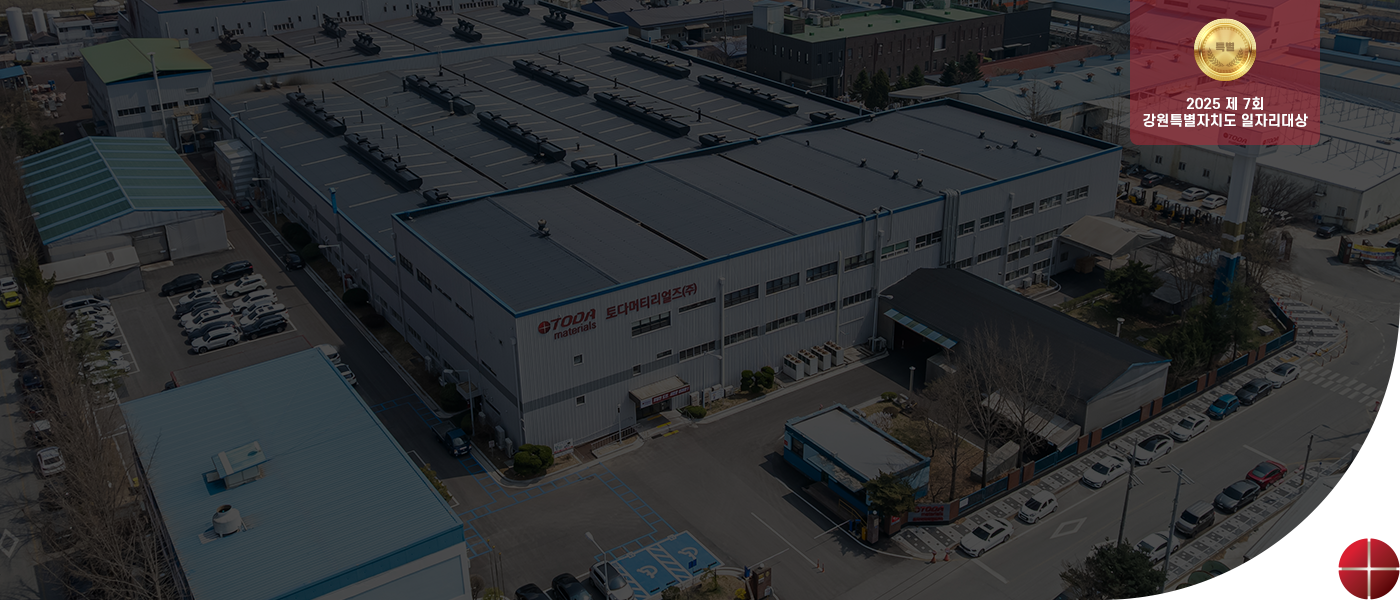
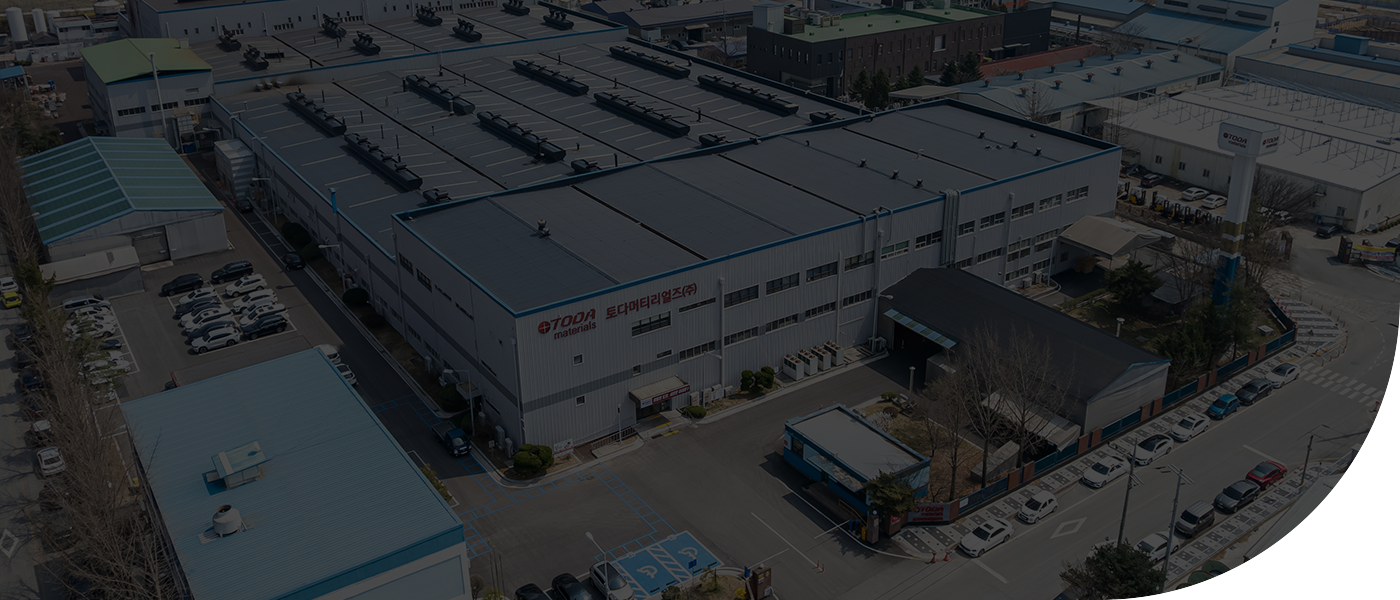
.

Changed region(s): [[0.7986, 0.0, 0.9521, 0.24], [0.9521, 0.9, 1.0, 1.0], [0.7986, 0.99, 0.8293, 1.0]]

diff --git a/html/page/corpCnt/css/corp08.css b/html/page/corpCnt/css/corp08.css
@@ -3,44 +3,49 @@ html { font-size: 10px }
 .pd70 { padding: 7rem 0 } 
 
 /* 메인 */
-.mod_visual { width: 100%; height: 600px; padding: 60px 0; background: url(../images/corp08/visual.png) no-repeat; background-size: cover; } 
+.mod_visual { width: 100%; height: 600px; position: relative; padding: 60px 0; background: url(../images/corp08/visual.png) no-repeat; background-size: cover; } 
+.mod_visual .container { position: initial; } 
+.mod_visual .cert_wrap { position: absolute; top: 0; right: 80px; padding: 18px 10px; background-color: rgba(212, 31, 49, 0.4); border-radius: 0 0 10px 10px; } 
+.mod_visual .cert_wrap .cert_img { margin-bottom: 10px; text-align: center; } 
+.mod_visual .cert_wrap p { color: #fff; font-size: 1.4rem; font-weight: 600; text-align: center; } 
 .mod_visual .txt_wrap { margin-top: 120px; text-align: left; } 
 .mod_visual .comName { color: #fff; font-size: 3.2rem; } 
 .mod_visual .comName b { font-size: 3.2rem; } 
 .mod_visual .title { margin-top: 6rem; font-size: 6rem; color: #fff; font-weight: bold; } 
+.mod_visual .imgCi { position: absolute; bottom: 0; right: 0; } 
 .sns_mod_info.sty01 { background: url(../images/corp08/info.png) no-repeat !important; background-size: cover !important; } 
 .sns_mod_info.sty01 .info_wrap > li { font-size: 1.8rem; color: #fff; } 
-.sns_mod_info.sty01 .info_wrap > li .cnt span { font-size: 2rem; color: #fff; } 
 .sns_mod_info.sty01 ul li:nth-child(1) .ico { background: url(../images/corp08/ico_finance01.png) no-repeat center; } 
 .sns_mod_info.sty01 ul li:nth-child(2) .ico { background: url(../images/corp08/ico_finance02.png) no-repeat center; } 
 .sns_mod_info.sty01 ul li:nth-child(3) .ico { background: url(../images/corp08/ico_finance03.png) no-repeat center; } 
 .sns_mod_info.sty01 ul li:nth-child(4) .ico { background: url(../images/corp08/ico_finance04.png) no-repeat center; } 
 
 /* 기업소개 */
-.mod_introduce h3 {margin-bottom: 40px;font-weight: 600;font-size: 4rem;text-align: center; } 
-.mod_introduce .txt {font-size: 1.8rem;line-height: 1.6;text-align: center; } 
-.mod_introduce .introduce_item {display: flex;align-items: center;justify-content: space-between;gap: 10px;margin-top: 40px; } 
-.mod_introduce .introduce_txt {max-width: 830px; } 
-.mod_introduce .introduce_txt p {font-size: 1.8rem;line-height: 1.6;word-break: keep-all; } 
+.mod_introduce h3 { margin-bottom: 40px; font-weight: 600; font-size: 4rem; text-align: center; } 
+.mod_introduce .txt { font-size: 1.8rem; line-height: 1.6; text-align: center; } 
+.mod_introduce .introduce_item { display: flex; align-items: center; justify-content: space-between; gap: 10px; margin-top: 40px; } 
+.mod_introduce .introduce_txt { max-width: 830px; } 
+.mod_introduce .introduce_txt p { font-size: 1.8rem; line-height: 1.6; word-break: keep-all; } 
 
 /* 핵심가치 */
 .mod_vision { padding: 70px 60px; background-color: #fbf6f5; } 
-.mod_vision h3 {margin-bottom: 40px;font-weight: 600;font-size: 4rem;text-align: center; } 
-.mod_vision .txt {color: #333;font-size: 2.4rem;text-align: center; } 
-.mod_vision .txt::before, .mod_vision .txt::after {display: inline-block;content: '';width: 16px;height: 13px;margin-right: 10px;background: url(../images/corp08/vision_img01.png) no-repeat center;vertical-align: top; } 
-.mod_vision .txt::after {margin-left: 10px;background: url(../images/corp08/vision_img02.png) no-repeat center; } 
-.mod_vision .vision_list {display: grid;grid-template-columns: repeat(4, 1fr);gap: 30px;margin-top: 60px; } 
-.mod_vision .vision_list li::before {content: '';display: block;width: 100%;height: 56px;margin-bottom: 20px;background-image: url(../images/corp08/vision_list01.png);background-repeat: no-repeat;background-position: center right;background-size: contain; } 
-.mod_vision .vision_list li:nth-child(2):before {background-image: url(../images/corp08/vision_list02.png); } 
-.mod_vision .vision_list li:nth-child(3):before {background-image: url(../images/corp08/vision_list03.png); } 
-.mod_vision .vision_list li:nth-child(4):before {background-image: url(../images/corp08/vision_list04.png); } 
-.mod_vision .vision_list li {padding: 30px 20px;background-color: #fff;border-radius: 20px;box-shadow: 0px 2px 7.36px 0.64px rgba(0, 0, 0, 0.1); } 
-.mod_vision .vision_list__tit strong {color: #333333;font-size: 2.4rem;font-weight: 600; } 
-.mod_vision .vision_list__tit p {margin-top: 15px;color: #b42432;font-size: 1.6rem; } 
-.mod_vision .vision_list__txt {margin-top: 20px;color: #848484;font-size: 1.8rem; } 
+.mod_vision h3 { margin-bottom: 40px; font-weight: 600; font-size: 4rem; text-align: center; } 
+.mod_vision .txt { color: #333; font-size: 2.4rem; text-align: center; } 
+.mod_vision .txt::before, .mod_vision .txt::after { display: inline-block; content: ''; width: 16px; height: 13px; margin-right: 10px; background: url(../images/corp08/vision_img01.png) no-repeat center; vertical-align: top; } 
+.mod_vision .txt::after { margin-left: 10px; background: url(../images/corp08/vision_img02.png) no-repeat center; } 
+.mod_vision .vision_list { display: grid; grid-template-columns: repeat(4, 1fr); gap: 30px; margin-top: 60px; } 
+.mod_vision .vision_list li::before { content: ''; display: block; width: 100%; height: 56px; margin-bottom: 20px; background-image: url(../images/corp08/vision_list01.png); background-repeat: no-repeat; background-position: center right; background-size: contain; } 
+.mod_vision .vision_list li:nth-child(2):before { background-image: url(../images/corp08/vision_list02.png); } 
+.mod_vision .vision_list li:nth-child(3):before { background-image: url(../images/corp08/vision_list03.png); } 
+.mod_vision .vision_list li:nth-child(4):before { background-image: url(../images/corp08/vision_list04.png); } 
+.mod_vision .vision_list li { padding: 30px 20px; background-color: #fff; border-radius: 20px; box-shadow: 0px 2px 7.36px 0.64px rgba(0, 0, 0, 0.1); } 
+.mod_vision .vision_list__tit strong { color: #333333; font-size: 2.4rem; font-weight: 600; } 
+.mod_vision .vision_list__tit p { margin-top: 15px; color: #b42432; font-size: 1.6rem; } 
+.mod_vision .vision_list__txt { margin-top: 20px; color: #848484; font-size: 1.8rem; } 
 
 /* 연혁 */
 .mod_history02 { overflow: hidden; } 
+.mod_history02 .history { max-width: 1200px; width: 100%; } 
 .mod_history02 .slick-slide { height: auto; } 
 
 /* 재무정보 */
@@ -52,121 +57,130 @@ html { font-size: 10px }
 /* 제품소개 */
 .mod_business_area04 .bizDiv .slick-slide .info > h4 { color: #333333; font-size: 2.4rem; text-align: center; } 
 .mod_business_area04 .bizDiv .slick-slide .info > p { color: #333333; font-size: 1.8rem; text-align: center; } 
-.mod_business_area04 .slick-dots {position: absolute;bottom: -18px;display: block;width: 100%;padding: 0;list-style: none;text-align: center}
+.mod_business_area04 .slick-dots { position: absolute; bottom: -18px; display: block; width: 100%; padding: 0; list-style: none; text-align: center } 
 
-.mod_business_area04 .slick-dots li {position: relative;display: inline-block;margin: 0 5px;padding: 0; } 
+.mod_business_area04 .slick-dots li { position: relative; display: inline-block; margin: 0 5px; padding: 0; } 
 
-.mod_business_area04 .slick-dots li button {display: block;width: 18px;height: 18px;background-color: #dadada;font-size: 0;border: 0;outline: 0;cursor: pointer;border-radius: 50%; } 
-.mod_business_area04 .slick-dots li.slick-active button {width: 36px;background-color: #c31f2f;border-radius: 20px; } 
+.mod_business_area04 .slick-dots li button { display: block; width: 18px; height: 18px; background-color: #dadada; font-size: 0; border: 0; outline: 0; cursor: pointer; border-radius: 50%; } 
+.mod_business_area04 .slick-dots li.slick-active button { width: 36px; background-color: #c31f2f; border-radius: 20px; } 
 
 /* 갤러리 */
-.mod_gallery .gallery_wrap {display: flex;gap: 10px; } 
-.mod_gallery .gallery_wrap ul:nth-child(1) {display: grid;grid-template-columns: 2fr 2fr;gap: 10px; } 
-.mod_gallery .gallery_wrap img {display: block; } 
+.mod_gallery .gallery_wrap { display: flex; gap: 10px; } 
+.mod_gallery .gallery_wrap ul:nth-child(1) { display: grid; grid-template-columns: 2fr 2fr; gap: 10px; } 
+.mod_gallery .gallery_wrap img { display: block; } 
 
 /* 복리후생 */
-.mod_culture09 {margin: 0 auto;background-color: #fbf6f5; } 
-.mod_culture09 .item:before {width: 80px;height: 80px;margin: 0 0 0 0;background-color: #f0f0f0 !important;background-repeat: no-repeat;background-position: center;border-radius: 10px; } 
-.mod_culture09 .item.insurance:before {background-image: url(../images/corp08/welfare_icon01.png); } 
-.mod_culture09 .item.reward:before {background-image: url(../images/corp08/welfare_icon02.png); } 
-.mod_culture09 .item.education:before {background-image: url(../images/corp08/welfare_icon03.png); } 
-.mod_culture09 .item.facilities:before {background-image: url(../images/corp08/welfare_icon04.png); } 
-.mod_culture09 .item.convenience:before {background-image: url(../images/corp08/welfare_icon05.png); } 
-.mod_culture09 .item.holiday:before {background-image: url(../images/corp08/welfare_icon06.png); } 
-.mod_culture09 .item.leisure:before {background-image: url(../images/corp08/welfare_icon07.png); } 
-.mod_culture09 .item.deduct:before {background-image: url(../images/corp08/welfare_icon01.png); } 
-.mod_culture09 .item dl {display: flex;flex-wrap: wrap;gap: 4px; } 
-.mod_culture09 .item dt {width: 100%;padding: 0;font-size: 1.6rem;font-weight: 600; } 
-.mod_culture09 .item dd {color: #a8a8a8;font-size: 1.4rem; } 
-.mod_culture09 .item dd:not(:last-child)::after {content: ','; } 
-.mod_culture09 .culwel_wrap {padding: 20px;background-color: #fff;border-radius: 15px;box-shadow: 0px 2px 7.36px 0.64px rgba(0, 0, 0, 0.1); } 
-.mod_culture09 .slick-track .slick-slide > div + div {padding: 20px 0; } 
-.mod_culture09 .slick-track .slick-slide > div {min-height: 110px;padding: 20px 0; } 
-.mod_culture09 .welfare_box {display: flex;margin-bottom: 40px; } 
-.mod_culture09 .welfare_img {display: flex;justify-content: center;flex-shrink: 0;width: 300px;height: 250px;padding: 40px 10px;background: url(../images/corp08/welfare_img.png) center no-repeat; } 
-.mod_culture09 .welfare_img p {margin-top: auto;color: #fff;font-size: 2.4rem;font-weight: 700;}
-.mod_culture09 .welfare_txt {display: flex;align-items: center;width: 100%;padding: 10px 40px;background-color: #fff;border-radius: 15px;box-shadow: 0px 2px 7.36px 0.64px rgba(0, 0, 0, 0.1); } 
-.mod_culture09 .welfare_txt p {color: #333;font-size: 1.8rem; } 
+.mod_culture09 { margin: 0 auto; padding: 80px 10px; background-color: #fbf6f5; } 
+.mod_culture09 .item:before { width: 80px; height: 80px; margin: 0 0 0 0; background-color: #f0f0f0 !important; background-repeat: no-repeat; background-position: center; border-radius: 10px; } 
+.mod_culture09 .item.insurance:before { background-image: url(../images/corp08/welfare_icon01.png); } 
+.mod_culture09 .item.reward:before { background-image: url(../images/corp08/welfare_icon02.png); } 
+.mod_culture09 .item.education:before { background-image: url(../images/corp08/welfare_icon03.png); } 
+.mod_culture09 .item.facilities:before { background-image: url(../images/corp08/welfare_icon04.png); } 
+.mod_culture09 .item.convenience:before { background-image: url(../images/corp08/welfare_icon05.png); } 
+.mod_culture09 .item.holiday:before { background-image: url(../images/corp08/welfare_icon06.png); } 
+.mod_culture09 .item.leisure:before { background-image: url(../images/corp08/welfare_icon07.png); } 
+.mod_culture09 .item.deduct:before { background-image: url(../images/corp08/welfare_icon01.png); } 
+.mod_culture09 .item dl { display: flex; flex-wrap: wrap; gap: 4px; } 
+.mod_culture09 .item dt { width: 100%; padding: 0; font-size: 1.6rem; font-weight: 600; } 
+.mod_culture09 .item dd { color: #a8a8a8; font-size: 1.4rem; } 
+.mod_culture09 .item dd:not(:last-child)::after { content: ','; } 
+.mod_culture09 .culwel_wrap { padding: 20px; background-color: #fff; border-radius: 15px; box-shadow: 0px 2px 7.36px 0.64px rgba(0, 0, 0, 0.1); } 
+.mod_culture09 .slick-track .slick-slide > div + div { padding: 20px 0; } 
+.mod_culture09 .slick-track .slick-slide > div { min-height: 110px; padding: 20px 0; } 
+.mod_culture09 .welfare_box { display: flex; margin-bottom: 40px; } 
+.mod_culture09 .welfare_img { display: flex; justify-content: center; flex-shrink: 0; width: 300px; height: 250px; padding: 40px 10px; background: url(../images/corp08/welfare_img.png) center no-repeat; } 
+.mod_culture09 .welfare_img p { margin-top: auto; color: #fff; font-size: 2.4rem; font-weight: 700; } 
+.mod_culture09 .welfare_txt { display: flex; align-items: center; width: 100%; padding: 10px 40px; background-color: #fff; border-radius: 15px; box-shadow: 0px 2px 7.36px 0.64px rgba(0, 0, 0, 0.1); } 
+.mod_culture09 .welfare_txt p { color: #333; font-size: 1.8rem; } 
 
 /* 인재상 */
 .mod_talent { background-color: #fff; } 
-.mod_talent h3 {margin-bottom: 40px;font-weight: 600;font-size: 4rem;text-align: center; } 
-.mod_talent .txt {color: #333;font-size: 2.4rem;text-align: center; } 
-.mod_talent .txt::before, .mod_talent .txt::after {display: inline-block;content: '';width: 16px;height: 13px;margin-right: 10px;background: url(../images/corp08/vision_img01.png) no-repeat center;vertical-align: top; } 
-.mod_talent .txt::after {margin-left: 10px;background: url(../images/corp08/vision_img02.png) no-repeat center; } 
-.mod_talent .talent_list {display: grid;grid-template-columns: repeat(4, 1fr);gap: 30px;margin-top: 60px; } 
-.mod_talent li {border-radius: 15px;overflow: hidden; } 
-.mod_talent li .talent_list__txt::before {content: '';display: block;width: 100%;height: 230px;margin-bottom: 18px;background-image: url(../images/corp08/talent_img01.png);background-size: cover;background-repeat: no-repeat; } 
-.mod_talent li:nth-child(2) .talent_list__txt::before {background-image: url(../images/corp08/talent_img02.png); } 
-.mod_talent li:nth-child(3) .talent_list__txt::before {background-image: url(../images/corp08/talent_img03.png); } 
-.mod_talent li:nth-child(4) .talent_list__txt::before {background-image: url(../images/corp08/talent_img04.png); } 
-.mod_talent li:nth-child(even) .talent_list__txt {background-color: #5e5e5e; } 
-.mod_talent li .talent_list__txt {padding-bottom: 18px;color: #fff;font-size: 1.8rem;font-weight: 600;text-align: center;background-color: #635252; } 
+.mod_talent h3 { margin-bottom: 40px; font-weight: 600; font-size: 4rem; text-align: center; } 
+.mod_talent .txt { color: #333; font-size: 2.4rem; text-align: center; } 
+.mod_talent .txt::before, .mod_talent .txt::after { display: inline-block; content: ''; width: 16px; height: 13px; margin-right: 10px; background: url(../images/corp08/vision_img01.png) no-repeat center; vertical-align: top; } 
+.mod_talent .txt::after { margin-left: 10px; background: url(../images/corp08/vision_img02.png) no-repeat center; } 
+.mod_talent .talent_list { display: grid; grid-template-columns: repeat(4, 1fr); gap: 30px; margin-top: 60px; } 
+.mod_talent li { border-radius: 15px; overflow: hidden; } 
+.mod_talent li .talent_list__txt::before { content: ''; display: block; width: 100%; height: 230px; margin-bottom: 18px; background-image: url(../images/corp08/talent_img01.png); background-size: cover; background-repeat: no-repeat; } 
+.mod_talent li:nth-child(2) .talent_list__txt::before { background-image: url(../images/corp08/talent_img02.png); } 
+.mod_talent li:nth-child(3) .talent_list__txt::before { background-image: url(../images/corp08/talent_img03.png); } 
+.mod_talent li:nth-child(4) .talent_list__txt::before { background-image: url(../images/corp08/talent_img04.png); } 
+.mod_talent li:nth-child(even) .talent_list__txt { background-color: #5e5e5e; } 
+.mod_talent li .talent_list__txt { padding-bottom: 18px; color: #fff; font-size: 1.8rem; font-weight: 600; text-align: center; background-color: #635252; } 
 
 /* 인재상 */
-.mod_interview02 {background-color: #fbf6f5; } 
-.mod_interview02 .container {background-color: #fbf6f5;box-shadow: none; } 
-.mod_interview02 h3 {color: #333; } 
-.mod_interview02 .slick-slide {height: auto; } 
-.mod_interview02 .iv_wrap .q:before {color: #333; } 
-.mod_interview02 .iv_wrap .q {color: #333;font-size: 2rem; } 
-.mod_interview02 .iv_wrap .a {color: #333;font-size: 1.6rem;font-weight: 300; } 
-.mod_interview02 .slick-dots li {background-color: #dadada; } 
-.mod_interview02 .slick-dots li.slick-active {background-color: #c31f2f; } 
+.mod_interview02 { background-color: #fbf6f5; } 
+.mod_interview02 .container { background-color: #fbf6f5; box-shadow: none; } 
+.mod_interview02 h3 { color: #333; } 
+.mod_interview02 .slick-slide { height: auto; } 
+.mod_interview02 .iv_wrap .q:before { color: #333; } 
+.mod_interview02 .iv_wrap .q { color: #333; font-size: 2rem; } 
+.mod_interview02 .iv_wrap .a { color: #333; font-size: 1.6rem; font-weight: 300; } 
+.mod_interview02 .slick-dots li { background-color: #dadada; } 
+.mod_interview02 .slick-dots li.slick-active { background-color: #c31f2f; } 
 
 /* 기업전경 */
 .mod_imgCom .slick-slide { height: auto; } 
-.mod_imgCom .slick-dots {position: absolute;bottom: -30px; left: 50%; transform: translateX(-50%); width: 100%;padding: 0;list-style: none;text-align: center}
-.mod_imgCom .slick-dots li {position: relative;display: inline-block;margin: 0 5px;padding: 0; } 
-.mod_imgCom .slick-dots li button {display: block;width: 18px;height: 18px;background-color: #dadada;font-size: 0;border: 0;outline: 0;cursor: pointer;border-radius: 50%; } 
-.mod_imgCom .slick-dots li.slick-active button {width: 36px;background-color: #c31f2f;border-radius: 20px; } 
+.mod_imgCom .slick-dots { position: absolute; bottom: -30px; left: 50%; transform: translateX(-50%); width: 100%; padding: 0; list-style: none; text-align: center } 
+.mod_imgCom .slick-dots li { position: relative; display: inline-block; margin: 0 5px; padding: 0; } 
+.mod_imgCom .slick-dots li button { display: block; width: 18px; height: 18px; background-color: #dadada; font-size: 0; border: 0; outline: 0; cursor: pointer; border-radius: 50%; } 
+.mod_imgCom .slick-dots li.slick-active button { width: 36px; background-color: #c31f2f; border-radius: 20px; } 
 
 
 
 /* 자소서 */
-.mod_strategy01 .stg_tit {background-color: #c31f2f; } 
-.mod_strategy01 .guide_wrap .item .q:before {color: #c31f2f;font-weight: 700; } 
-.mod_strategy01 .guide_wrap .item .q {font-weight: 600; } 
-.mod_strategy01 .ps_wrap .add_point {background-color: #c31f2f; } 
-.mod_strategy01 .ps_wrap .spec h4 {background-color: #c31f2f; } 
-.mod_strategy01 .stg_bg:before {background-color: #fbf2f3; } 
-.mod_strategy01 .interview_tip .stg_tit02 {color: #c31f2f; } 
-.mod_strategy01 .interview_tip .item:before {color: #c31f2f;font-weight: 600; } 
-
+.mod_strategy01 .stg_tit { background-color: #c31f2f; } 
+.mod_strategy01 .guide_wrap .item .q:before { color: #c31f2f; font-weight: 700; } 
+.mod_strategy01 .guide_wrap .item .q { font-weight: 600; } 
+.mod_strategy01 .ps_wrap .add_point { background-color: #c31f2f; } 
+.mod_strategy01 .ps_wrap .spec h4 { background-color: #c31f2f; } 
+.mod_strategy01 .stg_bg:before { background-color: #fbf2f3; } 
+.mod_strategy01 .interview_tip .stg_tit02 { color: #c31f2f; } 
+.mod_strategy01 .interview_tip .item:before { color: #c31f2f; font-weight: 600; } 
+.mod_strategy01 .ps_wrap .add_point h4,
+.mod_strategy01 .ps_wrap .spec h4 { max-width: 300px; width: 100%; } 
+.mod_strategy01 .interview_tip .btn_wrap { max-width: 370px; width: 100%; } 
 
 @media all and (max-width:1024px){
-}
+ .mod_talent .talent_list { grid-template-columns: repeat(2, 1fr); gap: 20px; } 
+ }
 
 @media all and (max-width:768px) { 
-  html { font-size: 8px; } 
+html { font-size: 8px; } 
+.mod_visual { height: 250px; } 
+.mod_visual .txt_wrap { margin-top: 0; text-align: center; } 
+.mod_visual .comName { font-size: 1.8rem; } 
+.mod_visual .comName b { font-size: 1.8rem; } 
+.mod_visual .title { margin-top: 1rem; font-size: 3rem; } 
+.mod_visual .cert_wrap { right: 1rem; padding: 1rem; } 
+.mod_visual .imgCi { position: static; margin-top: 1rem; text-align: center; } 
+.mod_visual .imgCi img { max-width: 3.2rem; } 
+.mod_visual .cert_wrap .cert_img img { max-width: 3rem; } 
+.mod_visual .cert_wrap p { font-size: 0.5rem; } 
  .sns_mod_info.sty01 { padding: 5rem 0 } 
  .sns_mod_info.sty01 .info_wrap { flex-wrap: wrap; } 
  .sns_mod_info.sty01 .info_wrap > li { width: calc(50% - 10px); margin-right: 20px } 
  .sns_mod_info.sty01 .info_wrap > li:nth-child(2n) { margin-right: 0 } 
  .sns_mod_info.sty01 .info_wrap > li:nth-child(-n + 2) { margin-bottom: 20px } 
- .sns_mod_info.sty01 .info_wrap > li > div.ico { background-size: 50px !important; height: 50px; } 
+ .sns_mod_info.sty01 .info_wrap > li > div.ico { background-size: contain; height: 50px; } 
 
- .mod_vision {
-    padding: 30px 30px;
-}
- .mod_introduce .introduce_item {
-    flex-direction: column;
+ .mod_vision { padding: 30px 30px; } 
+ .mod_introduce .introduce_item { flex-direction: column; } 
+ .mod_vision .vision_list { grid-template-columns: repeat(2, 2fr); } 
+
+ .mod_culture09 .welfare_box { flex-direction: column; } 
+ .mod_culture09 .welfare_img { width: 100%; background-size: cover; border-radius: 10px 10px 0 0; } 
+ .mod_culture09 .welfare_txt { border-radius: 0 0 10px 10px; } 
+ .mod_culture09 .container .slick-dots { bottom: -90px; } 
  }
- .mod_vision .vision_list {
-    grid-template-columns: repeat(2, 2fr);
+
+@media all and (max-width:640px){
+ .inner { padding: 0 10px; } 
+ .mod_vision { padding: 20px 10px; } 
+ .mod_vision .vision_list { grid-template-columns: repeat(1, 1fr); } 
+ .mod_talent .talent_list { grid-template-columns: repeat(1, 1fr); gap: 10px; } 
+ .mod_culture09 .container .slick-dots li { width: 10px; height: 10px; } 
+ .mod_culture09 .container .slick-dots li.slick-active { width: 23px; } 
+ .mod_imgCom .slick-dots li button { width: 10px; height: 10px; } 
+ .mod_imgCom .slick-dots li.slick-active button { width: 23px; } 
  }
-
-
-}
-
-@media all and (max-width:640px) { 
-    .inner {
-        padding: 0 10px;
-    }
-     .mod_vision {
-        padding: 20px 10px;
-    }
-     .mod_vision .vision_list {
-        grid-template-columns: repeat(1, 1fr);
-    }
-}

diff --git a/html/page/corpCnt/corp/corp08.html b/html/page/corpCnt/corp/corp08.html
@@ -18,12 +18,6 @@
    <script type="text/javascript" src="//cdn.jsdelivr.net/npm/slick-carousel@1.8.1/slick/slick.min.js"></script>
 </head>
 <body>
-	<style>
-		
-
-
-
-	</style>
 <main>
 	<div class="inner">
 		<!-- 비쥬얼 -->
@@ -32,7 +26,16 @@
 				<div class="txt_wrap">
 					<div class="comName">끊임없는 변화와 혁신으로<br> <b>소재, 부품의 발전을 선도하는 기업</b></div>
 					<p class="title">토다머티리얼즈</p>
-				</div>		
+				</div>
+				<div class="imgCi">
+					<img src="../images/corp08/logo.png" alt="토다머티리얼즈">
+				</div>
+				<div class="cert_wrap">
+					<div class="cert_img">
+						<img src="../images/corp08/cert.png" alt="일자리대상">
+					</div>
+					<p>2025 제 7회<br> 강원특별자치도 일자리대상</p>
+				</div>
 			</div>
 		</div>
 		<div class="module-wrap sns_mod_info sty01">
@@ -644,26 +647,19 @@
 			adaptiveHeight: true,
 			responsive: [
 				{
-					breakpoint: 1025,
-					slidesToShow: 1,
-					settings: {
-						arrows: false,
-					}
-				},
-				{
-					breakpoint: 821,
-					settings: {
-						slidesToShow: 2,
-						arrows: false,
+					breakpoint: 1024,					
+						settings: {
+							slidesToShow: 2,
+							arrows: false,
 						}
 				},
 				{
-					breakpoint: 480,
-					settings: {
-						slidesToShow: 1,
-						arrows: false,
+					breakpoint: 640,					
+						settings: {
+							slidesToShow: 1,
+							arrows: false,
 						}
-					}
+				},
 			]
 		});
 

diff --git a/index.html b/index.html
@@ -98,6 +98,11 @@
 				<td>페이지</td>
 				<td><a href="ckeditor/index.html" class="preview" target="_blank">강원도일자리정보망-에디터</a></td>
 			</tr>
+			<tr class="page">
+				<td></td>
+				<td>페이지</td>
+				<td><a href="html/page/corpCnt/corp/corp08.html" class="preview" target="_blank">기업컨텐츠 토다머티리얼즈</a></td>
+			</tr>	
         </tbody>
 	</table>
 </div>
